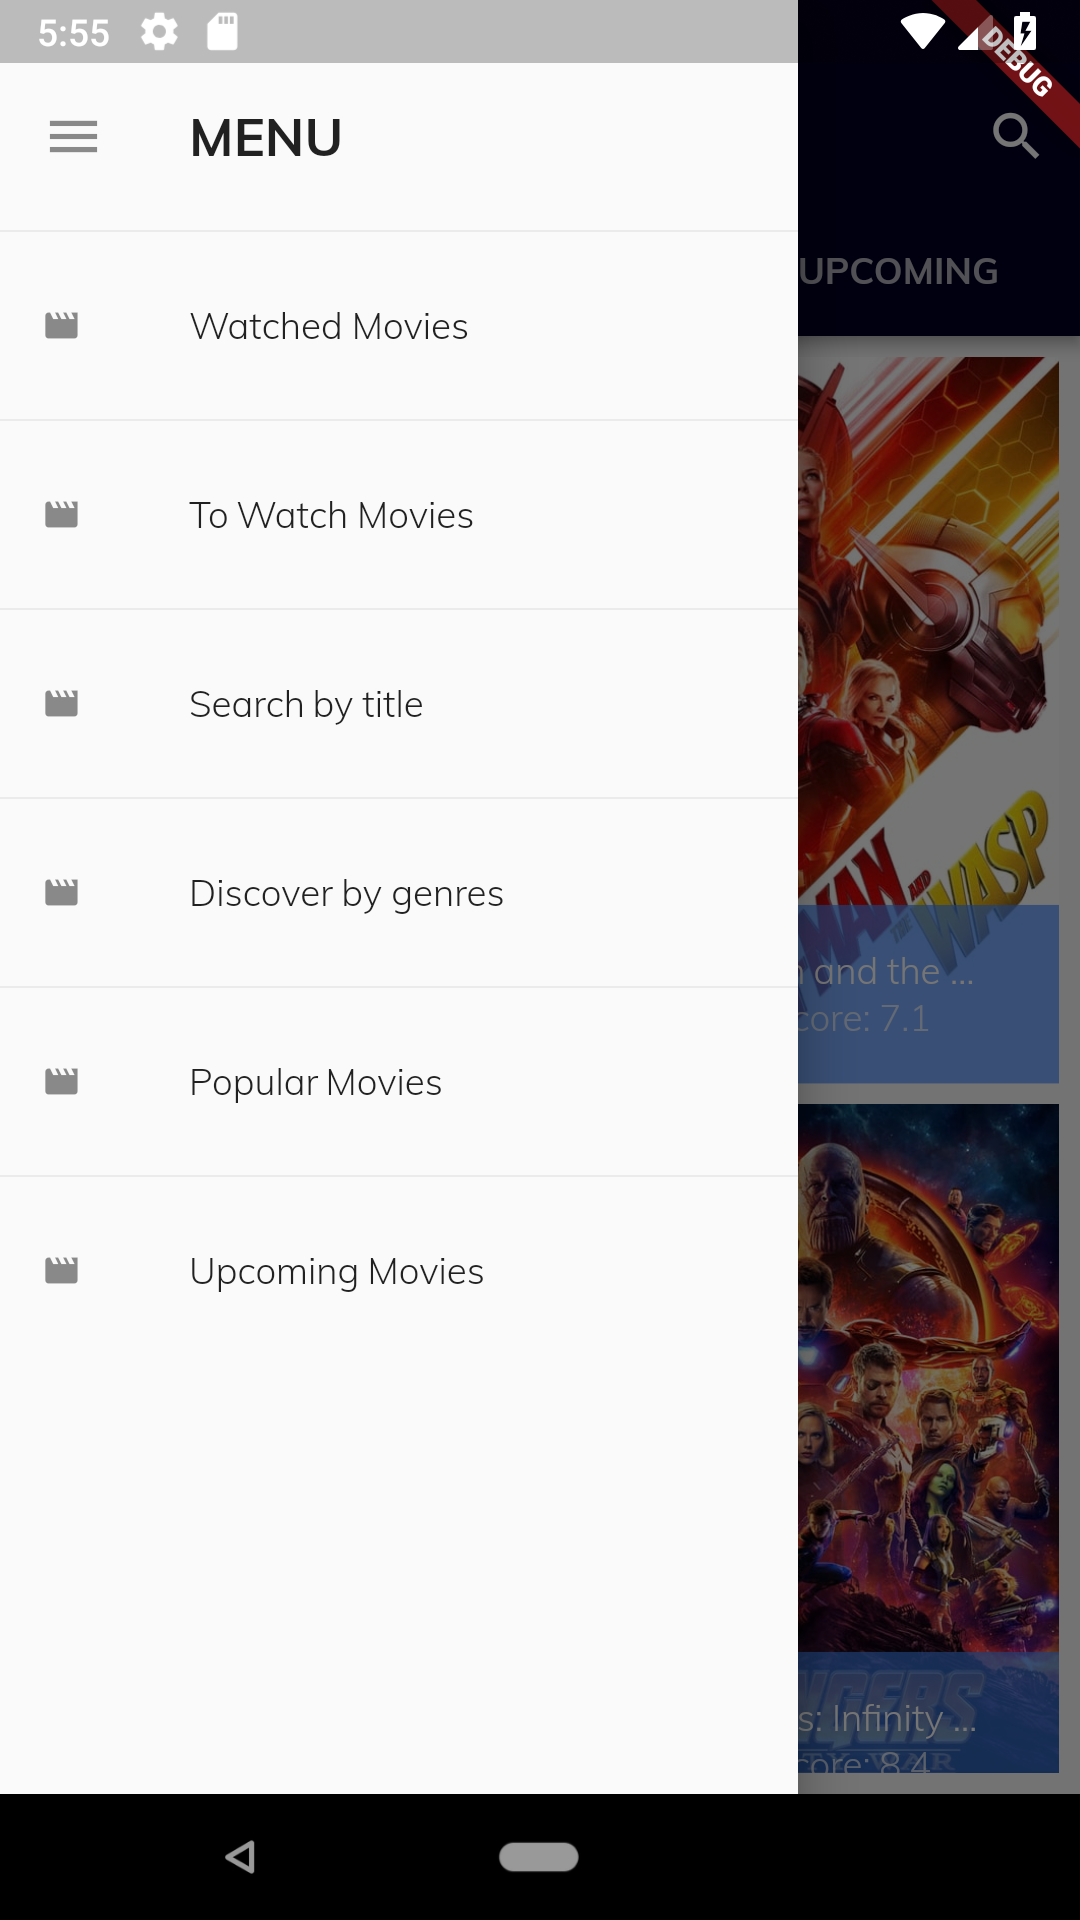
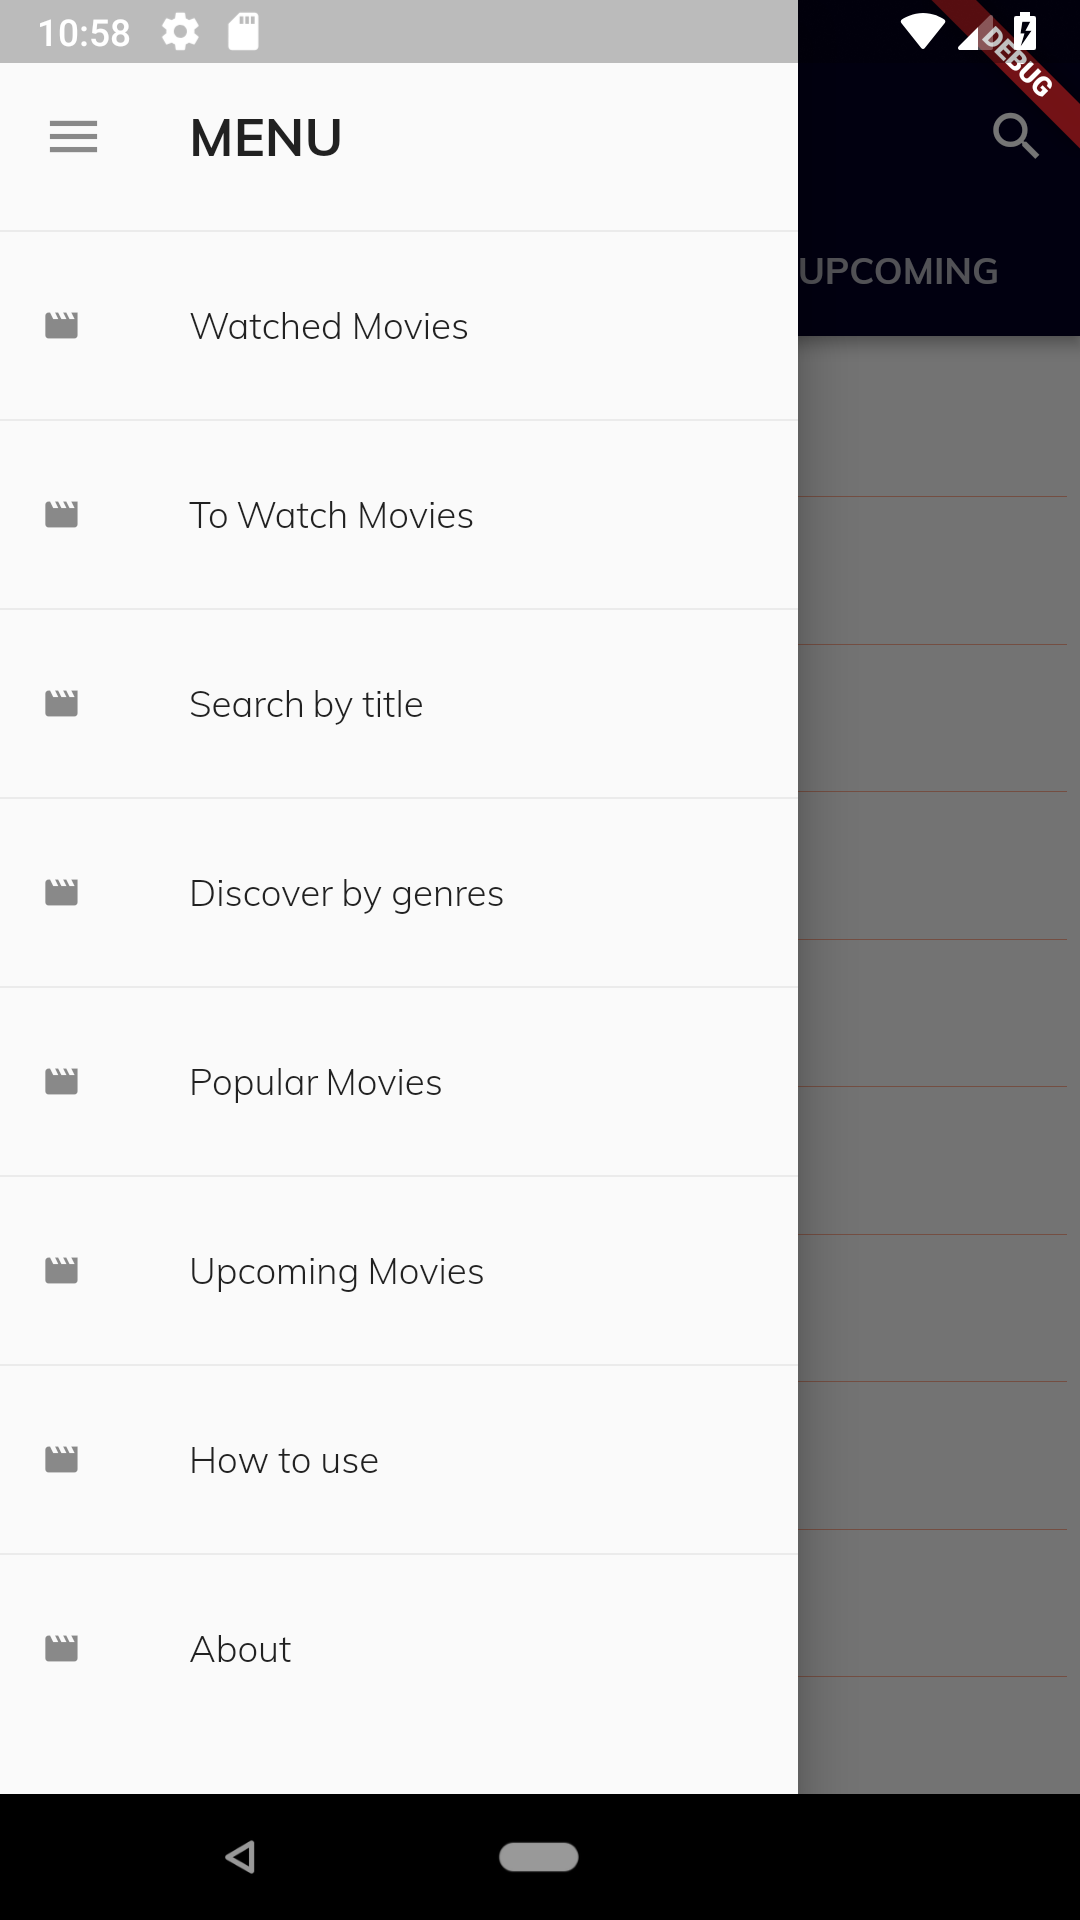
Fix bugs, add first use how to use screen

diff --git a/lib/main.dart b/lib/main.dart
@@ -26,17 +26,17 @@ class MyApp extends StatelessWidget {
         "/watched": (BuildContext context) => new WatchlistScreen(true),
         "/toWatch": (BuildContext context) => new WatchlistScreen(false),
         "/genres": (BuildContext context) =>
-            ScaffoldContainer(new GenreScreen(), "Genres"),
+            scaffoldContainer(new GenreScreen(), "Genres"),
         "/popular": (BuildContext context) =>
-            ScaffoldContainer(new PopularMoviesWidget(), "Popular Movies"),
+            scaffoldContainer(new PopularMoviesWidget(), "Popular Movies"),
         "/upcoming": (BuildContext context) =>
-            ScaffoldContainer(new UpcomingMoviesWidget(), "Upcoming Movies")
+            scaffoldContainer(new UpcomingMoviesWidget(), "Upcoming Movies")
       },
       home: new MainScreen(),
     );
   }
 
-  Widget ScaffoldContainer(Widget body, String title) {
+  Widget scaffoldContainer(Widget body, String title) {
     return new Scaffold(
       appBar: new AppBar(
         title: new Text(title,
@@ -62,6 +62,13 @@ class MainScreenState extends State with SingleTickerProviderStateMixin {
     genreScreen = new GenreScreen();
     upcomingMovies = new UpcomingMoviesWidget();
     tabController = new TabController(length: 3, vsync: this)..index = 1;
+  }
+
+  @override
+  void initState() {
+    super.initState();
+    WidgetsBinding.instance
+        .addPostFrameCallback((_) => (Watchlist.firstUseDB) ? howToUseDialog() : null);
   }
 
   Widget build(BuildContext context) {

diff --git a/lib/info_page.dart b/lib/info_page.dart
@@ -7,7 +7,7 @@ import 'loaded_content.dart';
 import 'watchlist_manager.dart';
 
 class InfoPage extends StatefulWidget {
-  Movie movie;
+  final Movie movie;
 
   InfoPage(this.movie);
 
@@ -61,8 +61,6 @@ class InfoPageState extends State<InfoPage> {
                   : _buildPage(),
               new GestureDetector(
                 child: new Container(
-                  child: new Hero(
-                      tag: widget.movie.id,
                       child: new Material(
                         child: new FadeInImage(
                           fit: BoxFit.fitHeight,
@@ -72,7 +70,7 @@ class InfoPageState extends State<InfoPage> {
                         ),
                         borderRadius: new BorderRadius.circular(13.0),
                         elevation: 7.0,
-                      )),
+                      ),
                   height: MediaQuery.of(context).size.height * 0.3,
                   margin: new EdgeInsets.only(left: 15.0, top: 60.0),
                 ),

diff --git a/lib/movie_box.dart b/lib/movie_box.dart
@@ -5,7 +5,7 @@ import 'watchlist_manager.dart';
 import 'loaded_content.dart';
 
 class MovieBox extends StatefulWidget {
-  Movie movie;
+  final Movie movie;
 
   MovieBox(this.movie);
 
@@ -18,13 +18,11 @@ class MovieBoxState extends State<MovieBox> {
   Widget build(BuildContext context) {
     return new GestureDetector(
       child: new GridTile(
-        child: new Hero(
-            tag: widget.movie.id,
             child: new FadeInImage(
               fit: BoxFit.cover,
               placeholder: new AssetImage("assets/loadingCircle.gif"),
               image: new NetworkImage(widget.movie.getPosterUrl()),
-            )),
+            ),
         footer: new GridTileBar(
           leading: (widget.movie.watched()) ? new Icon(Icons.check_circle, color: Colors.green) : (!widget.movie.toWatch()) ? new Container() : new Icon(Icons.remove_red_eye, color: Colors.white),
           title: new Text(widget.movie.title, style: new TextStyle(fontFamily: 'Muli')),

diff --git a/lib/genre_screen.dart b/lib/genre_screen.dart
@@ -3,7 +3,6 @@ import 'searcher.dart';
 import 'movie.dart';
 import 'dart:async';
 import 'dart:convert';
-import 'dictionary.dart';
 import 'grid_movie_screen.dart';
 import 'loaded_content.dart';
 
@@ -80,7 +79,7 @@ class GenreScreenState extends State {
                         child: new Column(
                           children: <Widget>[
                             new Text("Awaiting results...",
-                                style: new TextStyle(fontSize: 17.0)),
+                                style: new TextStyle(fontSize: 17.0, fontFamily: 'Muli')),
                             new Image(image: new AssetImage("assets/loading.gif")),
                           ],
                           crossAxisAlignment: CrossAxisAlignment.center,

diff --git a/lib/grid_movie_screen.dart b/lib/grid_movie_screen.dart
@@ -5,8 +5,8 @@ import 'loaded_content.dart';
 
 class GridMovieScreen extends StatelessWidget {
 
-  List<Movie> movies;
-  ScrollController controller;
+  final List<Movie> movies;
+  final ScrollController controller;
 
   GridMovieScreen(this.movies, this.controller);
 
@@ -25,7 +25,7 @@ class GridMovieScreen extends StatelessWidget {
   }
 
   static Movie checkWatchlist(Movie movie) {
-    if (LoadedContent.toWatchMovies.any((x) => x.id == movie.id)) {
+    if (LoadedContent.watchedMovies.any((x) => x.id == movie.id)) {
       movie.setWatched(true);
       movie.setToWatch(false);
     } else if (LoadedContent.toWatchMovies.any((x) => x.id == movie.id)) {

diff --git a/lib/popular_movies.dart b/lib/popular_movies.dart
@@ -52,7 +52,7 @@ class PopularMoviesWidgetState extends State<PopularMoviesWidget> {
                         child: new Column(
                       children: <Widget>[
                         new Text("Awaiting results...",
-                            style: new TextStyle(fontSize: 17.0)),
+                            style: new TextStyle(fontSize: 17.0, fontFamily: 'Muli')),
                         new Image(image: new AssetImage("assets/loading.gif")),
                       ],
                       crossAxisAlignment: CrossAxisAlignment.center,

diff --git a/lib/watchlist_manager.dart b/lib/watchlist_manager.dart
@@ -6,7 +6,7 @@ import 'movie.dart';
 class Watchlist {
 
   static Database db;
-  static bool firstUseDB = true;
+  static bool firstUseDB = false;
 
   static const String sqlMovie = """
     id INTEGER PRIMARY KEY,
@@ -32,9 +32,7 @@ class Watchlist {
     });
 
     db = await openDatabase(path);
-    List<Movie> watched = await watchedList();
-
-    watched.forEach((movie) => dropToWatchMovie(movie.id));
+    (await watchedList()).forEach((movie) => dropToWatchMovie(movie.id));
   }
 
   static addWatchedMovie(Movie movie) async {

diff --git a/lib/upcoming_movies.dart b/lib/upcoming_movies.dart
@@ -51,7 +51,7 @@ class UpcomingMoviesState extends State {
                     child: new Column(
                       children: <Widget>[
                         new Text("Awaiting results...",
-                            style: new TextStyle(fontSize: 17.0)),
+                            style: new TextStyle(fontSize: 17.0, fontFamily: 'Muli')),
                         new Image(image: new AssetImage("assets/loading.gif")),
                       ],
                       crossAxisAlignment: CrossAxisAlignment.center,

diff --git a/README.md b/README.md
@@ -2,6 +2,9 @@
 
 Cine-Data is an android app movie tracker that was made with flutter and uses TMDB Api.
 
+#### Availabe download clicking in the logo
+<a href="https://github.com/JaysusM/Cine-Data/releases/download/v1.0.1/CineData.apk"><img src="./screenshots/cinedata.png" height="250" alt="download logo"/></a>
+
 # Screenshots
 
 | Home Screen | Info Page |
@@ -19,3 +22,4 @@ Cine-Data is an android app movie tracker that was made with flutter and uses TM
 | Genres list Screen | Genre Screen |
 | ------------------ | ------------------ |
 | <img src="./screenshots/genres.png" height="400" alt="genres"/>  | <img src="./screenshots/genre page.png" height="400" alt="genre page"/>  |
+
